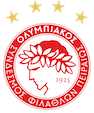
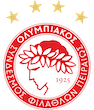
Changed sizes of photos and fixed some css

diff --git a/public/styles/matches.css b/public/styles/matches.css
@@ -3,7 +3,7 @@
     margin: 0.5vw 0;
 }
 
-.match-date li {
+li.match-date {
     list-style: none;
     font-size: 1.8vw;
     padding-left: 5px;
@@ -16,6 +16,9 @@
     padding: 1.5vw 2vw;
     border-radius: 0.8vw;
     transition: all 0.1s ease-in-out;
+    display: flex;
+    justify-content: space-between;
+    align-items: center;
 }
 
 .match-information:hover {
@@ -31,27 +34,37 @@
     border-bottom: 1px solid rgba(128, 128, 128, 0.4);
 }
 
+.current-state {
+    display: flex;
+    justify-content: start;
+    width: 12vw;
+}
+
 .current-state li {
-    width: 100px;
+    width: fit-content;
     height: 100%;
     font-size: 1.2vw;
     font-weight: 600;
 }
 
 .team {
-    height: 100%;
+    height: 4vw;
+    width: 3.5vw;
     margin: 0 0.8vw;
 }
 
 .home-team,
 .away-team {
-    width: auto;
-    height: 4vw;
+    width: 3.5vw;
+    height: 100%;
 }
 
 .teams-score {
-    width: 70%;
-    justify-content: center;
+    width: 27vw;
+    display: flex;
+    flex-direction: row;
+    align-items: center;
+    justify-content: space-between;
 }
 
 .teams-score label {
@@ -60,7 +73,18 @@
     font-weight: 500;
 }
 
+.home-team-name {
+    display: flex;
+    justify-content: start;
+}
+
+.away-team-name {
+    display: flex;
+    justify-content: end;
+}
+
 .team-name {
+    width: 100%;
     margin: 0;
 }
 
@@ -101,6 +125,9 @@
 /* Referee */
 .extra-information {
     height: 100%;
+    width: 12vw;
+    display: flex;
+    justify-content: start;
 }
 
 .extra-information li {

diff --git a/public/javascript/header-footer.js b/public/javascript/header-footer.js
@@ -1,21 +1,3 @@
-const teamsIconsData = [
-    {name: "AEK", icon: "aek.png", lineup: "aek-lineup.png"},
-    {name: "Olympiakos", icon: "osfp.png", lineup: "osfp-lineup.png"},
-    {name: "Panathinaikos", icon: "pao.png", lineup: "pao-lineup.png"},
-    {name: "PAOK", icon: "paok.png", lineup: "paok-lineup.png"},
-    {name: "Team5", icon: "home-team.png", lineup: "home-team-lineup.png"},
-    {name: "Team6", icon: "away-team.png", lineup: "away-team-lineup.png"},
-    {name: "Team7", icon: "team7.png", lineup: "team7-lineup.png"},
-    {name: "Napoli", icon: "napoli.png", lineup: "napoli-lineup.png"},
-    {name: "Barcelona", icon: "barc.png", lineup: "barc-lineup.png"},
-    {name: "Juventus", icon: "juve.png", lineup: "juve-lineup.png"},
-    {name: "PSG", icon: "psg.png", lineup: "psg-lineup.png"},
-    {name: "Arsenal", icon: "arsenal.png", lineup: "arsenal-lineup.png"},
-    {name: "Fenerbache", icon: "fener.png", lineup: "fener-lineup.png"},
-    {name: "Liverpool", icon: "live.png", lineup: "live-lineup.png"},
-    {name: "Porto", icon: "porto.png", lineup: "porto-lineup.png"},
-];
-
 const nav = document.querySelector('.header-options');
 
 // Function that creates the header
@@ -165,7 +147,6 @@ function fixMainContentHeight() {
 
 // Modal
 createModal();
-teamsForHeader();
 fixMainContentHeight();
 
 // Validate input fields

diff --git a/public/styles/standings.css b/public/styles/standings.css
@@ -38,7 +38,7 @@ tbody td.team-td,
 tbody td.points-td {
     position: sticky;
     background-color: rgb(70, 70, 70);
-    z-index: 1;
+    z-index: 2;
 }
 
 thead th.sticky-rank {
@@ -175,8 +175,8 @@ thead tr {
 }
 
 .team-td div img {
-    width: 4vw;
-    height: auto;
+    width: auto;
+    height: 4vw;
     position: relative;
 }
 

diff --git a/public/styles/header.css b/public/styles/header.css
@@ -133,6 +133,10 @@ nav.header-options li:hover a {
   transition: all 0.3s ease-in-out;
 }
 
+.header-team a {
+  height: 100%;
+}
+
 .header-team img {
   height: 100%;
   width: auto;
